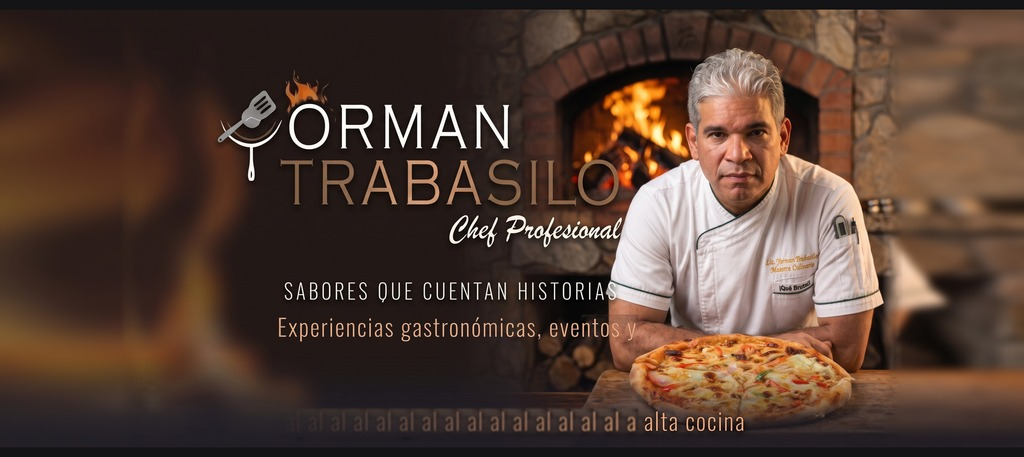
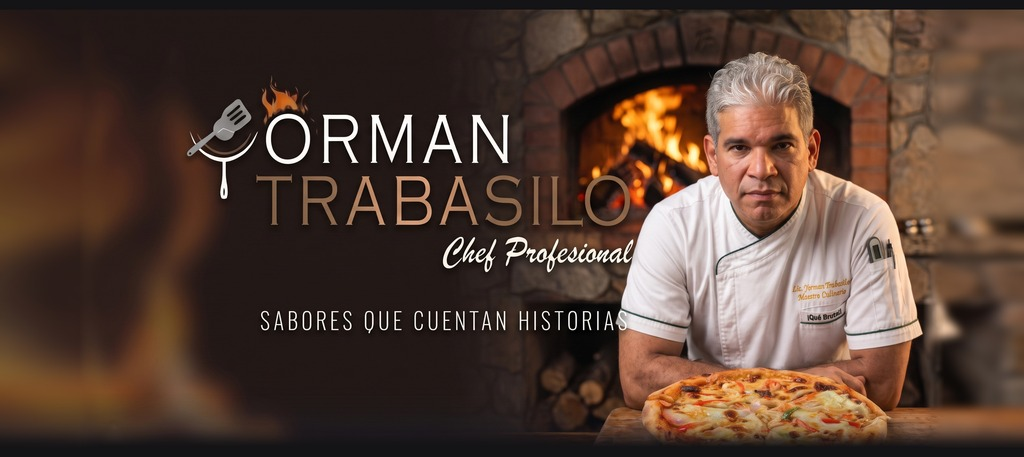
feat(portada): eliminar artefactos de texto inferior y aplicar difuminado fotografico puro hacia seccion biografica

diff --git a/index.html b/index.html
@@ -162,8 +162,8 @@
     <section class="relative w-full bg-[#141315] overflow-hidden">
       <div class="relative w-full overflow-hidden img-zoom-container group">
         <picture class="w-full h-auto block">
-          <source media="(max-width: 768px)" srcset="assets/images/portada_hero_banner_1024.jpg?v=20261028_alejar">
-          <img src="assets/images/portada_hero_banner_1920.jpg?v=20261028_alejar" 
+          <source media="(max-width: 768px)" srcset="assets/images/portada_hero_banner_1024.jpg?v=20261028_puro">
+          <img src="assets/images/portada_hero_banner_1920.jpg?v=20261028_puro" 
                alt="Lic. Yorman Trabasilo - Chef Profesional · Sabores que cuentan historias" 
                class="w-full h-auto max-h-[85vh] object-cover object-center img-zoom-target transition-transform duration-700">
         </picture>
